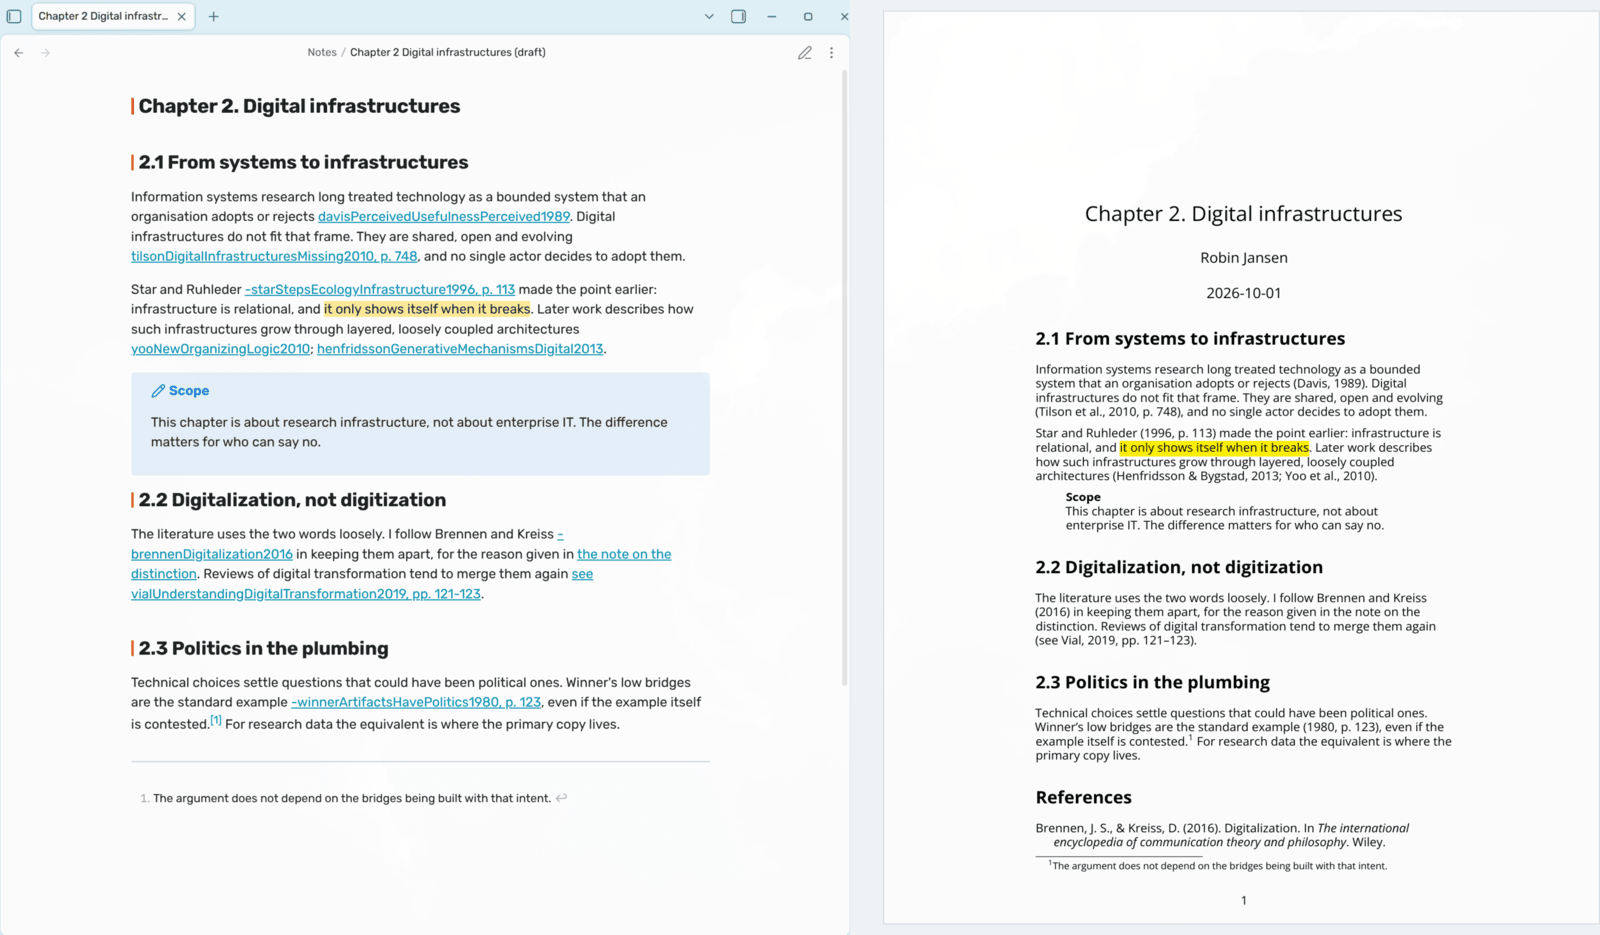
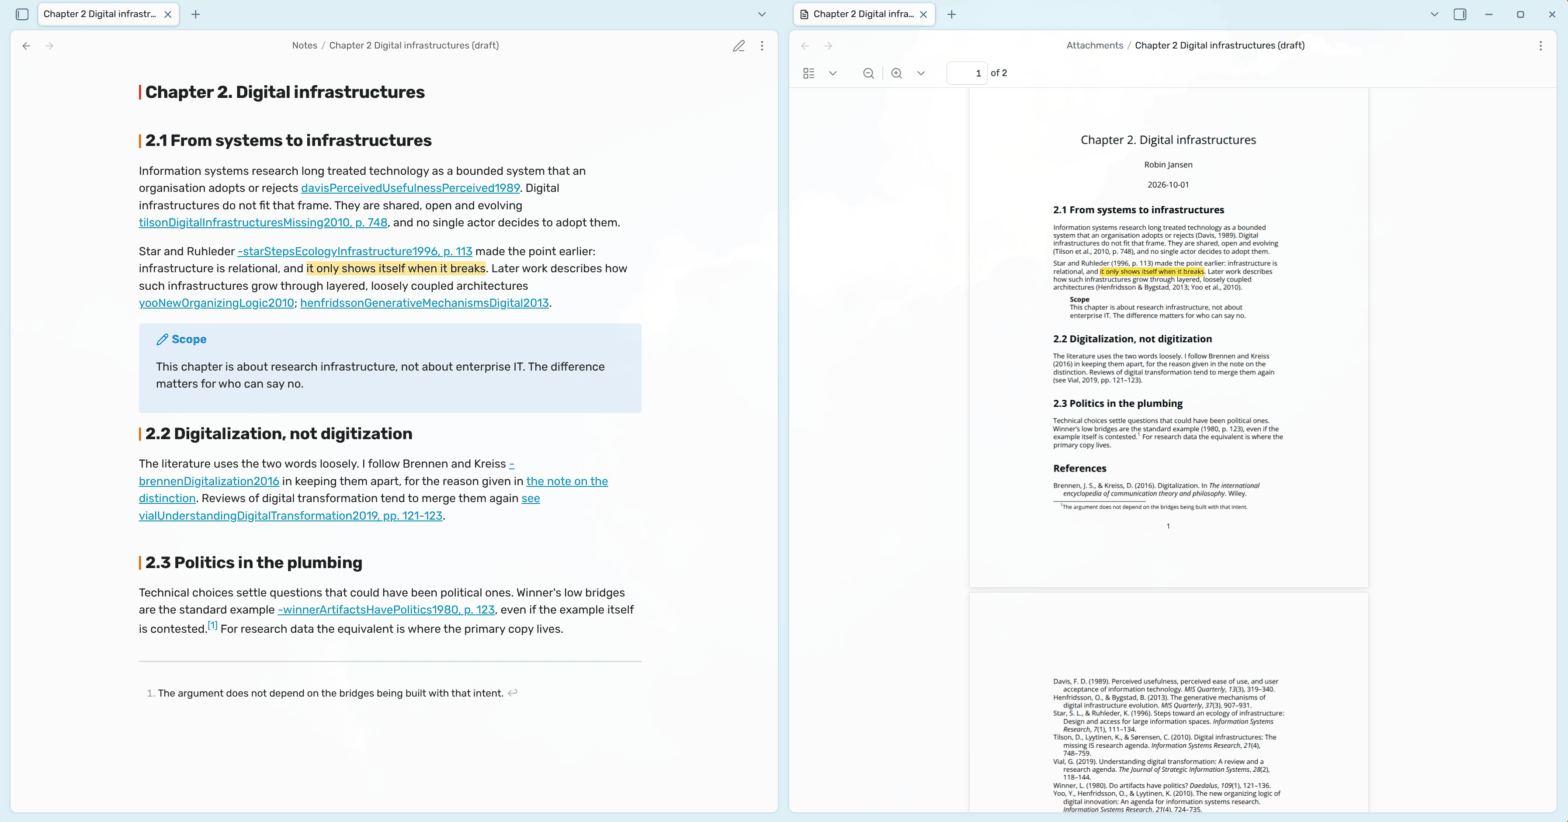
docs: show the export next to the note in one window

diff --git a/README.md b/README.md
@@ -14,7 +14,7 @@ which writes those links for you from your Zotero library. See
 [![Checks](https://github.com/jorritvanderheide/obsidian-due-credit/actions/workflows/lint.yml/badge.svg)](https://github.com/jorritvanderheide/obsidian-due-credit/actions/workflows/lint.yml)
 [![License: EUPL-1.2](https://img.shields.io/badge/license-EUPL--1.2-blue?style=flat-square)](LICENSE)
 
-![A chapter in Obsidian with citation links, next to its PDF export with the citations and a reference list](https://raw.githubusercontent.com/jorritvanderheide/obsidian-due-credit/main/images/hero.png)
+![A chapter in Obsidian with citation links, next to its PDF export opened in Obsidian, with the citations and the full reference list](https://raw.githubusercontent.com/jorritvanderheide/obsidian-due-credit/main/images/hero.png)
 
 In your vault, a citation can simply be a link: `[[marsh2024]]`. It opens the
 paper, shows a preview when you hover over it, and the paper's backlinks show
